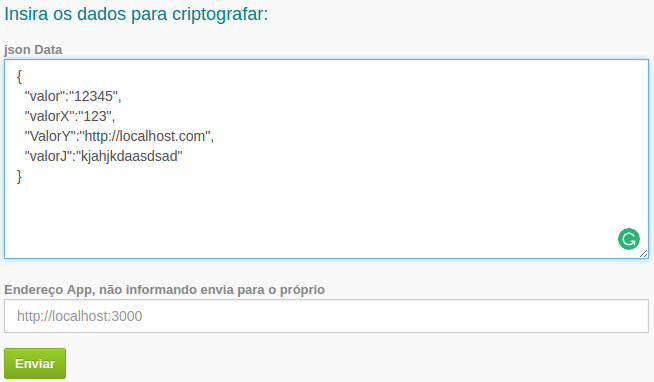
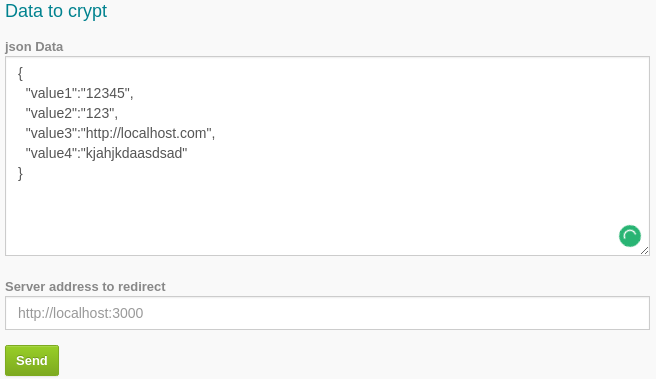
improving help

diff --git a/README.md b/README.md
@@ -1,4 +1,4 @@
-# Simulador criptografia
+# Crypto Simulator Form
 
 The package is based on [react-npm-boilerplate](https://github.com/juliancwirko/react-npm-boilerplate)
 It includes linting with [ESLint](http://eslint.org/) and testing with [Mocha](https://mochajs.org/), [Enzyme](http://airbnb.io/enzyme/) and [JSDOM](https://github.com/tmpvar/jsdom).
@@ -8,6 +8,9 @@ It includes linting with [ESLint](http://eslint.org/) and testing with [Mocha](h
 1. Inside your project `npm install crypto-simulator-form`
 2. import Simulador from 'Simulador';
 3. `<Simulador uri="service URL" serverAddress="http://serverXYZ"/>`
+4. The informed server must return the encrypted data as querystring
+5. It will send the data defined to the endpoint you want and redirect you after to the server you informed with the querystring appended.`<Simulador uri="service URL" serverAddress="http://serverXYZ"/>`
+
 
 ## Render
 ![Alt text](/print.png?raw=true "Rendered")
